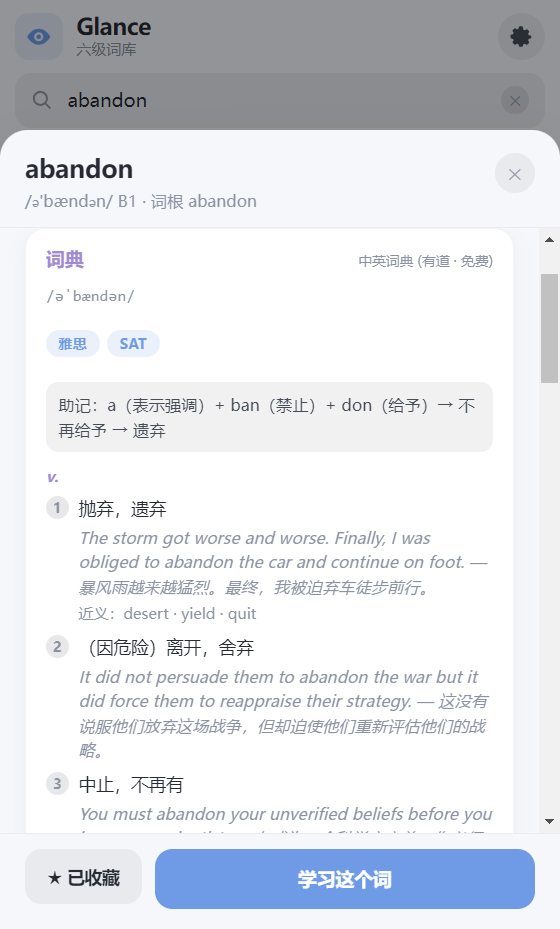
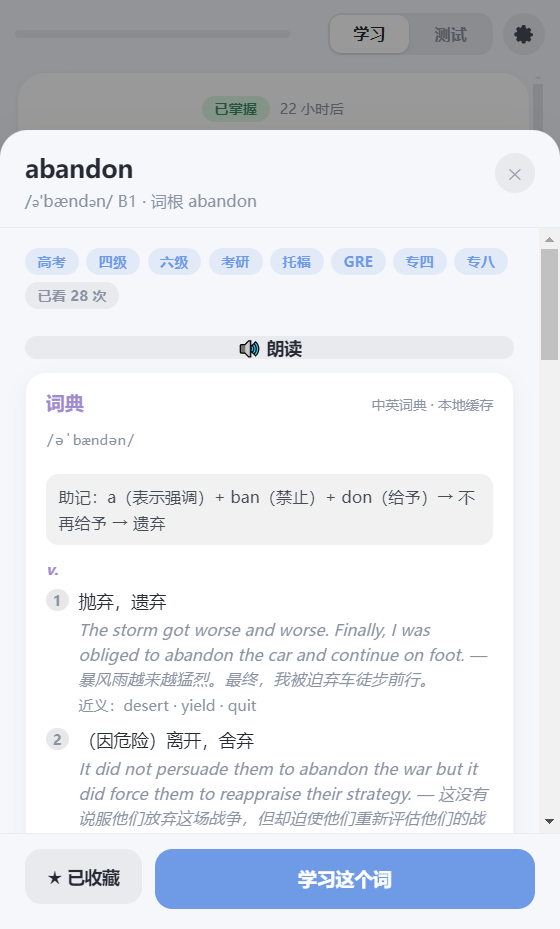
Add configurable study panel and soften session progress
- Let learners toggle 11 study-page sections (phonetic, meaning, morphemes, mnemonic, definitions, examples, family, synonyms, derivatives, inflections, etymology) from Settings, persisted and exported with learning data.
- Render rich compact study info: English definitions, clickable root family, synonyms, derivatives, inflections, etymology and examples.
- Replace numeric session counter with a soft rounded progress bar.
- De-duplicate exam tags on dictionary cards and drop the "(有道 · 免费)" provider suffix.

diff --git a/app/js/app.js b/app/js/app.js
@@ -120,9 +120,13 @@
   }
 
   function updatePlanBar() {
-    const pill = $('session-pill');
-    if (!pill) return;
-    pill.textContent = session.length ? (Math.min(sessionIdx + 1, session.length) + ' / ' + session.length) : '完成';
+    const bar = $('study-progress');
+    const fill = $('study-progress-fill');
+    if (!bar || !fill) return;
+    const total = session.length;
+    const pct = total ? Math.round((Math.min(sessionIdx, total) / total) * 100) : 100;
+    fill.style.width = pct + '%';
+    bar.setAttribute('aria-valuenow', String(pct));
   }
 
   function renderStudy() {
@@ -133,8 +137,11 @@
     const viewKey = e.word + '|' + sessionIdx + '|' + ((session[0] && session[0].entry.word) || '');
     if (viewKey !== lastViewKey) { lastViewKey = viewKey; Store.recordView(e.word); }
     const st = Store.data.srs[e.word];
+    const sp = Store.data.studyPanel || {};
     $('word').textContent = e.word;
     $('phonetic').textContent = e.phonetic ? '/' + e.phonetic + '/' + (e.cefr ? '  ·  ' + e.cefr : '') : (e.cefr || '');
+    $('phonetic').hidden = sp.phonetic === false;
+    $('speak-button').hidden = sp.phonetic === false;
     const badge = $('word-badge');
     if (item.kind === 'new') { badge.textContent = '新词'; badge.className = 'word-badge new'; }
     else if (SRS.isKnown(st)) { badge.textContent = '已掌握'; badge.className = 'word-badge known'; }
@@ -142,16 +149,107 @@
     $('word-due').textContent = item.kind === 'new' ? '' : SRS.nextDueLabel(st, Date.now());
     renderMorphemes(e);
     const mn = $('word-mnemonic');
-    const m = mnemonicText(e);
+    const m = sp.mnemonic === false ? null : mnemonicText(e);
     if (m) { mn.textContent = m.text; mn.hidden = false; mn.classList.toggle('ai', m.ai); }
     else { mn.textContent = ''; mn.hidden = true; }
-    $('word-meaning').textContent = e.meaning || e.zh || '';
+    const wm = $('word-meaning');
+    wm.textContent = e.meaning || e.zh || '';
+    wm.hidden = sp.meaning === false;
+    renderStudyInfo(e);
     updatePlanBar();
     const panel = $('study-panel');
     panel.classList.remove('anim'); void panel.offsetWidth; panel.classList.add('anim');
     panel.scrollTop = 0;
     renderTs = Date.now();
     if (Store.data.autoSpeak) speak(e.word, e.audio);
+  }
+
+  function renderStudyInfo(e) {
+    const wrap = $('study-info');
+    if (!wrap) return;
+    wrap.innerHTML = '';
+    const sp = Store.data.studyPanel || {};
+    const on = k => sp[k] !== false;
+
+    function addRow(label, node) {
+      const row = el('section', 'info-row');
+      row.appendChild(el('div', 'info-label', label));
+      const body = el('div', 'info-body');
+      body.appendChild(node);
+      row.appendChild(body);
+      wrap.appendChild(row);
+    }
+    function chipList(items) {
+      const box = el('div', 'info-chips');
+      items.forEach(it => {
+        const chip = el(it.word ? 'button' : 'span', 'info-chip');
+        if (it.word) { chip.type = 'button'; chip.addEventListener('click', () => openWordSheet(it.word)); }
+        chip.appendChild(el('span', 'info-chip-main', it.main));
+        if (it.sub) chip.appendChild(el('span', 'info-chip-sub', it.sub));
+        box.appendChild(chip);
+      });
+      return box;
+    }
+
+    if (on('definitions') && (e.definitions || []).length) {
+      const list = el('div', 'info-defs');
+      e.definitions.slice(0, 4).forEach(d => {
+        const row = el('div', 'info-def');
+        if (d[0]) row.appendChild(el('span', 'info-def-pos', d[0] + '.'));
+        row.appendChild(el('span', 'info-def-text', d[1] || ''));
+        list.appendChild(row);
+      });
+      if (e.definitions.length > 4) list.appendChild(el('div', 'info-more', '还有 ' + (e.definitions.length - 4) + ' 条'));
+      addRow('英文释义', list);
+    }
+
+    const famRoot = e.rootFamily && e.rootFamily.root;
+    if (on('family') && famRoot) {
+      const fam = Library.getFamily(famRoot);
+      const box = el('div', 'info-family');
+      const rootBtn = el('button', 'info-root');
+      rootBtn.type = 'button';
+      rootBtn.appendChild(el('span', 'info-root-text', famRoot));
+      const gloss = e.rootFamily.rootZh || (fam && fam.zh) || '';
+      if (gloss) rootBtn.appendChild(el('span', 'info-root-gloss', gloss));
+      rootBtn.addEventListener('click', () => openFamily(famRoot));
+      box.appendChild(rootBtn);
+      const words = ((fam && fam.family) || []).filter(w => w.word !== e.word);
+      if (words.length) {
+        box.appendChild(chipList(words.slice(0, 8).map(w => ({ main: w.word, sub: w.meaning, word: w.word }))));
+        if (words.length > 8) box.appendChild(el('span', 'info-more', '+' + (words.length - 8) + ' 词'));
+      }
+      addRow('词根家族', box);
+    }
+
+    if (on('synonyms') && (e.synonyms || []).length) {
+      addRow('近义词', chipList(e.synonyms.slice(0, 10).map(w => ({ main: w, word: w }))));
+    }
+
+    if (on('derivatives') && (e.derivatives || []).length) {
+      addRow('派生词', chipList(e.derivatives.slice(0, 8).map(d => ({
+        main: d[0],
+        sub: d[1] ? ({ pre: '前缀 ', suf: '后缀 ' }[d[2]] || '') + d[1] : '',
+        word: d[0]
+      }))));
+    }
+
+    if (on('inflections') && (e.inflections || []).length) {
+      addRow('词形变化', chipList(e.inflections.map(w => ({ main: w }))));
+    }
+
+    if (on('etymology') && e.etymology) addRow('词源', el('p', 'info-etymology', e.etymology));
+
+    if (on('examples') && (e.examples || []).length) {
+      const list = el('div', 'info-examples');
+      e.examples.slice(0, 3).forEach(ex => {
+        const line = typeof ex === 'string' ? ex : (ex && (ex.en || ex.example)) || '';
+        if (line) list.appendChild(el('p', 'info-example', line));
+      });
+      if (list.childNodes.length) addRow('例句', list);
+    }
+
+    wrap.hidden = !wrap.childNodes.length;
   }
 
   function renderEmpty() {
@@ -196,7 +294,8 @@
   function renderMorphemes(e) {
     const morphEl = $('morphemes');
     morphEl.innerHTML = '';
-    const chips = e.morphemes || [];
+    const hidden = (Store.data.studyPanel || {}).morphemes === false;
+    const chips = hidden ? [] : (e.morphemes || []);
     if (!chips.length) { morphEl.style.display = 'none'; return; }
     morphEl.style.display = '';
     chips.forEach((c, i) => {
@@ -733,7 +832,7 @@
         content.appendChild(el('p', 'dict-ipa', ipaText));
       }
       const ownTags = new Set((e && e.tags) || []);
-      const exam = (record.exam || []).filter(t => !ownTags.has(t));
+      const exam = ownTags.size ? [] : (record.exam || []);
       if (exam.length) {
         const tags = el('div', 'exam-tags dict-exam');
         exam.forEach(t => tags.appendChild(el('span', 'exam-tag', t)));
@@ -1215,6 +1314,8 @@
     $('set-lang').value = Store.data.ttsLang || '';
     $('set-autospeak').checked = !!Store.data.autoSpeak;
     $('set-prefer-audio').checked = Store.data.preferAudio !== false;
+    const panel = Store.data.studyPanel || {};
+    document.querySelectorAll('[data-panel]').forEach(cb => { cb.checked = panel[cb.dataset.panel] !== false; });
     const ai = Store.data.ai;
     const sel = $('set-ai-provider');
     sel.innerHTML = '';
@@ -1328,6 +1429,11 @@
     $('set-lang').addEventListener('change', () => { Store.data.ttsLang = $('set-lang').value; Store.save(); });
     $('set-autospeak').addEventListener('change', () => { Store.data.autoSpeak = $('set-autospeak').checked; Store.save(); });
     $('set-prefer-audio').addEventListener('change', () => { Store.data.preferAudio = $('set-prefer-audio').checked; Store.save(); });
+    document.querySelectorAll('[data-panel]').forEach(cb => cb.addEventListener('change', () => {
+      Store.data.studyPanel[cb.dataset.panel] = cb.checked;
+      Store.save();
+      if (currentView === 'study' && mode === 'study') renderStudy();
+    }));
     $('set-books').addEventListener('click', () => { closeSheet(); switchView('books'); });
     $('books-back').addEventListener('click', () => switchView('study'));
     $('set-ai-enabled').addEventListener('change', () => Store.setAiConfig({ enabled: $('set-ai-enabled').checked }));

diff --git a/app/index.html b/app/index.html
@@ -29,7 +29,9 @@
 
     <main class="view" id="view-study">
       <div class="study-top">
-        <span class="session-pill" id="session-pill">—</span>
+        <div class="study-progress" id="study-progress" role="progressbar" aria-label="学习进度" aria-valuemin="0" aria-valuemax="100" aria-valuenow="0">
+          <span class="study-progress-fill" id="study-progress-fill"></span>
+        </div>
         <div class="study-top-actions">
           <div class="mode-switch" role="tablist" aria-label="模式">
             <button class="mode-btn active" id="mode-study" type="button" role="tab" aria-selected="true">学习</button>
@@ -62,6 +64,7 @@
             <svg viewBox="0 0 24 24"><path fill="currentColor" d="M8.6 5.6 15 12l-6.4 6.4L7.2 17l5-5-5-5z"/></svg>
           </button>
         </section>
+        <div class="study-info" id="study-info" hidden></div>
       </div>
 
       <div class="scroll empty-state" id="study-empty" hidden>
@@ -328,6 +331,54 @@
           <select id="set-lang"><option value="">自动</option><option value="en-US">英语 (美)</option><option value="en-GB">英语 (英)</option><option value="zh-CN">中文</option></select>
         </label>
         <button class="btn-ghost" id="set-test-speak" type="button">试听 hello</button>
+      </section>
+      <section class="set-group">
+        <h4>学习面板</h4>
+        <p class="field-hint">选择学习页展示的内容，随时可开关。</p>
+        <div class="set-row">
+          <span class="set-row-label">音标与发音<small>音标和朗读按钮</small></span>
+          <label class="switch"><input type="checkbox" data-panel="phonetic" /><span class="slider"></span></label>
+        </div>
+        <div class="set-row">
+          <span class="set-row-label">释义<small>卡片上的中文释义</small></span>
+          <label class="switch"><input type="checkbox" data-panel="meaning" /><span class="slider"></span></label>
+        </div>
+        <div class="set-row">
+          <span class="set-row-label">构词解析<small>前缀 / 词根 / 后缀拆解</small></span>
+          <label class="switch"><input type="checkbox" data-panel="morphemes" /><span class="slider"></span></label>
+        </div>
+        <div class="set-row">
+          <span class="set-row-label">助记<small>词根助记钩子</small></span>
+          <label class="switch"><input type="checkbox" data-panel="mnemonic" /><span class="slider"></span></label>
+        </div>
+        <div class="set-row">
+          <span class="set-row-label">英文释义<small>词性与英文解释</small></span>
+          <label class="switch"><input type="checkbox" data-panel="definitions" /><span class="slider"></span></label>
+        </div>
+        <div class="set-row">
+          <span class="set-row-label">例句<small>单词例句</small></span>
+          <label class="switch"><input type="checkbox" data-panel="examples" /><span class="slider"></span></label>
+        </div>
+        <div class="set-row">
+          <span class="set-row-label">词根家族<small>同根词一览</small></span>
+          <label class="switch"><input type="checkbox" data-panel="family" /><span class="slider"></span></label>
+        </div>
+        <div class="set-row">
+          <span class="set-row-label">近义词<small>同义 / 近义表达</small></span>
+          <label class="switch"><input type="checkbox" data-panel="synonyms" /><span class="slider"></span></label>
+        </div>
+        <div class="set-row">
+          <span class="set-row-label">派生词<small>加缀派生词</small></span>
+          <label class="switch"><input type="checkbox" data-panel="derivatives" /><span class="slider"></span></label>
+        </div>
+        <div class="set-row">
+          <span class="set-row-label">词形变化<small>复数、时态等形式</small></span>
+          <label class="switch"><input type="checkbox" data-panel="inflections" /><span class="slider"></span></label>
+        </div>
+        <div class="set-row">
+          <span class="set-row-label">词源<small>单词的来源故事</small></span>
+          <label class="switch"><input type="checkbox" data-panel="etymology" /><span class="slider"></span></label>
+        </div>
       </section>
       <section class="set-group">
         <h4>词书</h4>

diff --git a/app/css/app.css b/app/css/app.css
@@ -194,8 +194,9 @@ input, select { font-family: inherit; }
 /* ---------- clean study page ---------- */
 /* hide global header while studying; a slim quiet top bar remains */
 .app[data-current="study"] .app-header { display: none; }
-.study-top { flex: 0 0 auto; display: flex; align-items: center; justify-content: space-between; gap: 10px; min-height: 34px; }
-.study-top .session-pill { font-size: 12.5px; color: var(--text-3); font-variant-numeric: tabular-nums; background: var(--fill); padding: 5px 12px; border-radius: 999px; }
+.study-top { flex: 0 0 auto; display: flex; align-items: center; justify-content: space-between; gap: 14px; min-height: 34px; }
+.study-progress { flex: 1 1 auto; max-width: 220px; height: 6px; border-radius: 999px; background: var(--fill); overflow: hidden; }
+.study-progress-fill { display: block; width: 0; height: 100%; border-radius: inherit; background: linear-gradient(90deg, rgba(147, 184, 240, 0.65), var(--accent)); transition: width .55s cubic-bezier(.22, .61, .36, 1); }
 .study-top .study-top-actions { display: flex; align-items: center; gap: 8px; }
 .study-top .mode-switch { width: 132px; flex: 0 0 auto; }
 .study-top .mode-btn { height: 30px; font-size: 13px; }
@@ -203,6 +204,33 @@ input, select { font-family: inherit; }
 /* inline primary meaning + expand affordance on the word card */
 .word-meaning { margin-top: 14px; font-size: 17px; line-height: 1.55; color: var(--text-2); display: -webkit-box; -webkit-line-clamp: 3; -webkit-box-orient: vertical; overflow: hidden; }
 .word-meaning:empty { display: none; }
+.word-meaning[hidden] { display: none; }
+.speak-btn[hidden] { display: none; }
+
+/* ---------- study info panel ---------- */
+.study-info { flex: 0 0 auto; margin-top: 12px; padding: 4px 20px; background: var(--card); border-radius: var(--r-lg); box-shadow: var(--shadow-card); text-align: left; }
+.study-info[hidden] { display: none; }
+.info-row { padding: 14px 0; border-bottom: 1px solid var(--hairline); }
+.info-row:last-child { border-bottom: none; }
+.info-label { margin-bottom: 7px; font-size: 11.5px; font-weight: 700; letter-spacing: 0.4px; color: var(--text-3); }
+.info-body { font-size: 14px; line-height: 1.55; color: var(--text-2); }
+.info-chips { display: flex; flex-wrap: wrap; gap: 6px; }
+.info-chip { display: inline-flex; align-items: baseline; gap: 6px; max-width: 100%; border: none; background: var(--fill); color: var(--text-2); font-family: inherit; font-size: 13px; line-height: 1.3; padding: 5px 10px; border-radius: 999px; cursor: default; }
+button.info-chip { cursor: pointer; transition: background .16s ease, color .16s ease; }
+button.info-chip:hover { background: var(--fill-2); color: var(--text); }
+.info-chip-main { font-weight: 600; color: var(--text); }
+.info-chip-sub { max-width: 12em; overflow: hidden; text-overflow: ellipsis; white-space: nowrap; font-size: 11.5px; color: var(--text-3); }
+.info-defs, .info-examples { display: flex; flex-direction: column; gap: 6px; }
+.info-def { display: flex; align-items: baseline; gap: 7px; }
+.info-def-pos { flex: 0 0 auto; font-size: 11.5px; font-style: italic; font-weight: 600; color: var(--accent); }
+.info-example { margin: 0; font-size: 13.5px; color: var(--text-2); }
+.info-etymology { margin: 0; font-size: 13.5px; line-height: 1.6; color: var(--text-2); }
+.info-more { align-self: center; font-size: 12px; color: var(--text-3); }
+.info-family { display: flex; flex-direction: column; gap: 8px; }
+.info-root { align-self: flex-start; display: inline-flex; align-items: baseline; gap: 6px; border: none; background: var(--root-bg); color: var(--root-fg); font-family: inherit; padding: 5px 12px; border-radius: 999px; cursor: pointer; }
+.info-root:hover { filter: brightness(1.04); }
+.info-root-text { font-size: 14px; font-weight: 700; }
+.info-root-gloss { font-size: 11.5px; color: var(--text-3); }
 .word-mnemonic { margin-top: 12px; font-size: 13.5px; line-height: 1.5; color: var(--root-fg); background: var(--root-bg); border-radius: var(--r-sm); padding: 8px 12px; display: inline-block; max-width: 100%; }
 .word-mnemonic[hidden] { display: none; }
 .word-mnemonic.ai { color: var(--prefix-fg); background: var(--prefix-bg); }

diff --git a/app/js/store.js b/app/js/store.js
@@ -12,6 +12,10 @@
     errors: {},
     customBooks: {},
     cardOrder: ['meaning', 'mnemonic', 'morphemes', 'definitions', 'family', 'synonyms', 'derivatives', 'etymology', 'inflections'],
+    studyPanel: {
+      phonetic: true, meaning: true, morphemes: true, mnemonic: true, definitions: true,
+      examples: true, family: true, synonyms: true, derivatives: true, etymology: true, inflections: true
+    },
     autoSpeak: false,
     preferAudio: true,
     ttsRate: 1,
@@ -41,6 +45,8 @@
     if (!d.views || typeof d.views !== 'object') d.views = {};
     if (!Array.isArray(d.cardOrder) || !d.cardOrder.length) d.cardOrder = DEFAULTS.cardOrder.slice();
     if (!d.cardOrder.includes('mnemonic')) { const i = d.cardOrder.indexOf('meaning'); d.cardOrder.splice(i < 0 ? 0 : i + 1, 0, 'mnemonic'); }
+    if (!d.studyPanel || typeof d.studyPanel !== 'object' || Array.isArray(d.studyPanel)) d.studyPanel = {};
+    d.studyPanel = Object.assign({}, DEFAULTS.studyPanel, d.studyPanel);
     if (!d.fsrs || typeof d.fsrs !== 'object') d.fsrs = { w: null, seqs: {}, count: 0, lastOpt: 0 };
     if (!d.fsrs.seqs || typeof d.fsrs.seqs !== 'object') d.fsrs.seqs = {};
     if (!d.ai || typeof d.ai !== 'object') d.ai = { provider: 'deepseek', key: '', model: '', base: '', enabled: false };
@@ -291,6 +297,7 @@
         customBooks: clone(data.customBooks || {}),
         settings: {
           plan: clone(data.plan), activeBook: data.activeBook, cardOrder: (data.cardOrder || []).slice(),
+          studyPanel: clone(data.studyPanel || {}),
           autoSpeak: data.autoSpeak, preferAudio: data.preferAudio, ttsRate: data.ttsRate, ttsLang: data.ttsLang,
           ai, dict
         }
@@ -356,6 +363,7 @@
         if (isObj(s.plan)) data.plan = Object.assign({ newPerDay: 20, reviewCap: 0 }, s.plan);
         if (typeof s.activeBook === 'string' && s.activeBook) data.activeBook = s.activeBook;
         if (Array.isArray(s.cardOrder) && s.cardOrder.length) data.cardOrder = s.cardOrder.slice();
+        if (isObj(s.studyPanel)) data.studyPanel = Object.assign({}, DEFAULTS.studyPanel, s.studyPanel);
         ['autoSpeak', 'preferAudio'].forEach(k => { if (typeof s[k] === 'boolean') data[k] = s[k]; });
         if (typeof s.ttsRate === 'number') data.ttsRate = s.ttsRate;
         if (typeof s.ttsLang === 'string') data.ttsLang = s.ttsLang;

diff --git a/app/js/dictionary.js b/app/js/dictionary.js
@@ -2,7 +2,7 @@
 (function () {
   const PROVIDERS = [
     {
-      id: 'freezh', name: '中英词典 (有道 · 免费)', needKey: false, custom: false,
+      id: 'freezh', name: '中英词典', needKey: false, custom: false,
       hint: '免 Key 的中英/英中词典：中文释义、双音标、双语例句、考试标签与助记。桌面/安卓端直连；浏览器预览若被跨域拦截会自动回退免费英文词典。'
     },
     {

diff --git a/DEVELOPMENT.md b/DEVELOPMENT.md
@@ -327,6 +327,20 @@
 - [x] 重跑 `android-build.yml` 构建 APK → 发布 Release → 通知用户下载链接（P7：run `43358799647` → `android-8`；有道词典版：run `43366725898` → `android-10`，target `9948be9`）。
 - [x] 推送用专用 SSH 密钥 `id_ed25519_glance`；提交用 noreply 邮箱 `125885091+mjkyleo@users.noreply.github.com`。
 
+### 8.5 学习页信息密度 + 学习面板设置 ✅
+
+**反馈**：词典卡考试标签与词卡顶部重复；服务商名带「(有道 · 免费)」；学习页只有单词/音标/释义，内容太空；顶部数字进度「1 / 90」不够柔和。
+
+- [x] **标签去重**：本地词条已有 `e.tags` 时，词典卡不再渲染考试标签行；仅词库外的词用词典标签兜底。
+- [x] **服务商命名**：`PROVIDERS[0].name` 改为「中英词典」，设置页/词典卡/回退提示统一使用。
+- [x] **学习面板**：`store.js` 新增 `studyPanel`（默认全开），`normalize` 合并缺省；`exportData` / `importData` 随设置迁移。
+  - 设置页新增「学习面板」组：音标与发音、释义、构词解析、助记、英文释义、例句、词根家族、近义词、派生词、词形变化、词源共 11 项开关，改动即时保存并重绘学习页。
+  - 学习卡片下方新增 `.study-info`：英文释义（最多 4 条）、词根家族（词根按钮 + 最多 8 个同根词，可点开词卡）、近义词/派生词/词形变化 chips、词源、例句；无内容自动隐藏。
+  - 开关关闭时同步隐藏对应 DOM（`phonetic`/`speak-button`/`word-meaning`/`morphemes`/`word-mnemonic`），不占位。
+- [x] **柔和进度条**：移除 `session-pill` 数字，改为 6px 圆角轨道 + 渐变填充，`aria-valuenow` 同步；宽度按已完成/总数平滑过渡。
+
+**验证（CDP 实操）**：`verify-panel.js` 5/5 通过——设置组 11 项默认全开、进度条无文字且评分后由 0% → 5%、`abandon` 学习页出现 6 个信息行、关闭释义/词根家族/音标后对应元素隐藏且恢复、词典名「中英词典」且本地词词典标签 0 条（顶部 8 条）。全量回归 15/15、有道归一化 24/24，`EXCEPTIONS: []`、`CONSOLE_ERRORS: []`。截图更新 `docs/screenshots/{study,dictionary}.png`。
+
 ---
 
 ## 9. 关键约束与注意事项

diff --git a/README.md b/README.md
@@ -20,6 +20,7 @@
 **学得进**
 - 29 个专项主题（动物、家居、动作、经济、科技、自然、中国文化等），支持整主题专项学习。
 - 单词测试：同词根易混干扰项，错词自动进入生词本与错题本。
+- 学习页内容自由组合：音标、释义、构词解析、助记、英文释义、例句、词根家族、近义词、派生词、词形变化、词源逐项开关；会话进度以柔和进度条呈现。
 - 每日新词/复习计划、打卡日历、掌握分布、正确率与学习时长统计。
 
 **用得上**
@@ -48,7 +49,7 @@
 
 ## 使用
 
-1. **学习**：首页按每日计划推送新词与到期复习；认识 / 模糊 / 忘记三档评分会更新记忆状态。
+1. **学习**：首页按每日计划推送新词与到期复习；认识 / 模糊 / 忘记三档评分会更新记忆状态。学习页展示哪些信息，可在「设置 → 学习面板」随时调整。
 2. **专项**：底部「专项」选择主题，查看词表后点「专项学习」集中攻克一类词。
 3. **查词**：底部「查词」搜索单词、词根或词缀；打开词卡可看词性详解、助记、词根家族、外部词典与 AI 讲解。
 4. **词典**：词卡内点「查询词典」按当前服务商检索，结果自动缓存；在「设置 → 外部词典」切换服务商。
@@ -85,7 +86,7 @@
 
 | 服务商 | 地址 | Key |
 | --- | --- | --- |
-| 中英词典（有道，默认） | `https://dict.youdao.com/jsonapi?q={word}` | 不需要 |
+| 中英词典（默认，有道源） | `https://dict.youdao.com/jsonapi?q={word}` | 不需要 |
 | 免费英文词典 | `https://api.dictionaryapi.dev/api/v2/entries/en/{word}` | 不需要 |
 | Merriam-Webster | `https://dictionaryapi.com/api/v3/references/collegiate/json/{word}?key={key}` | 需在 dictionaryapi.com 免费申请 |
 | 自定义端点 | 任意返回 JSON 的地址，用 `{word}` 占位 | 可选，默认以 `Bearer` 发送 |
